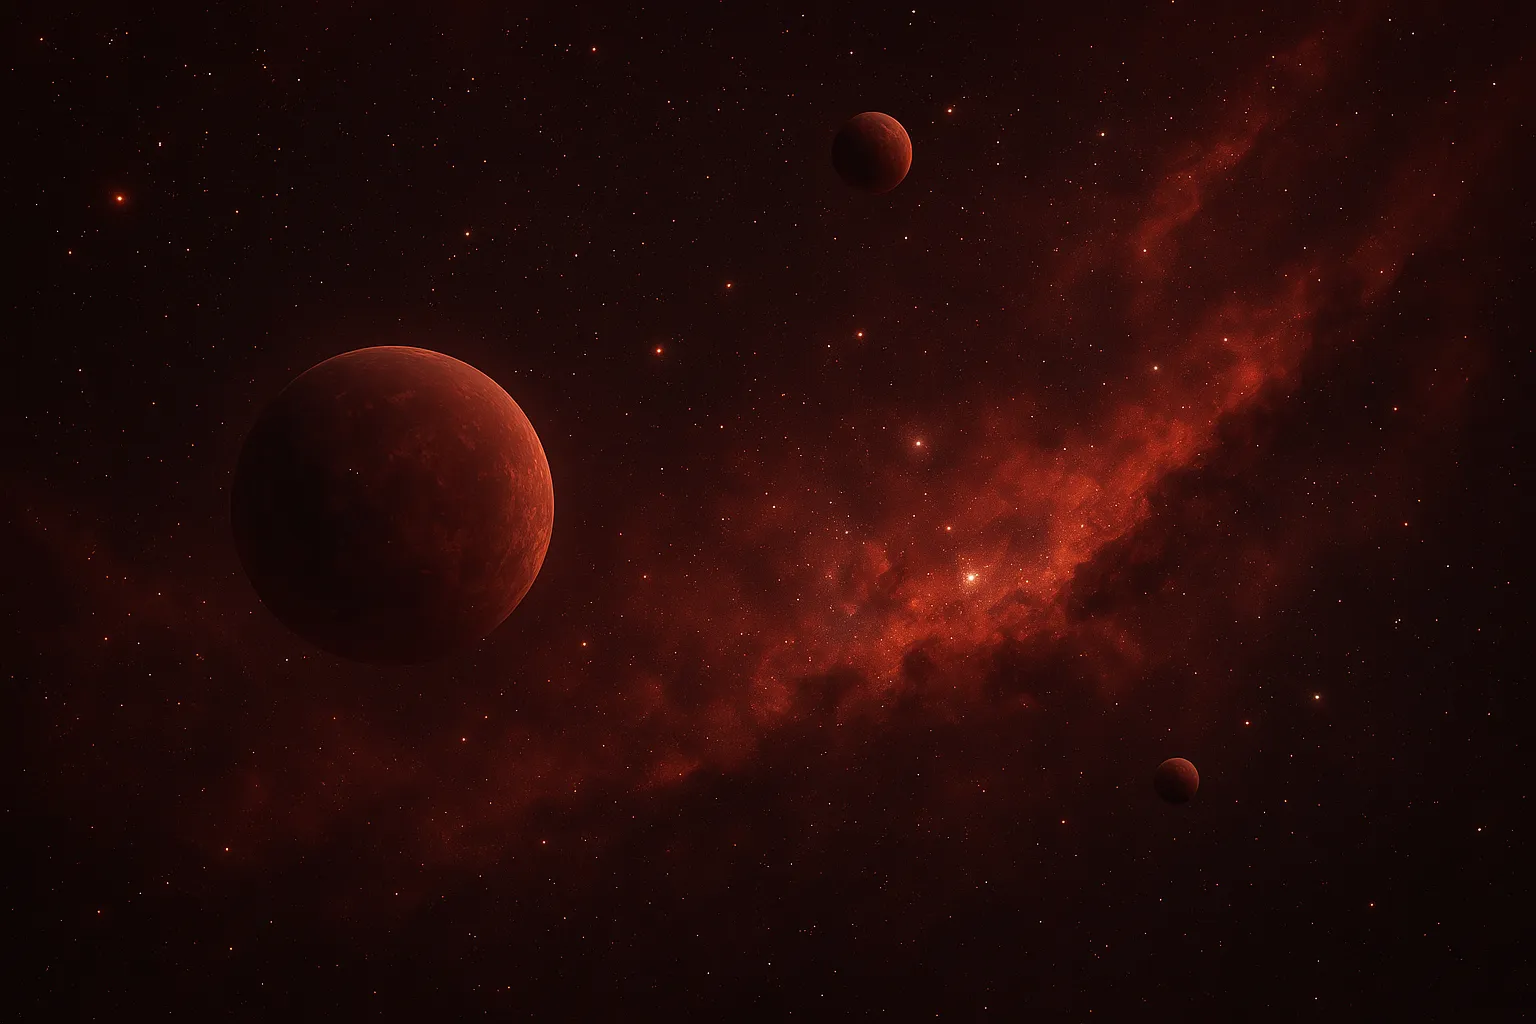
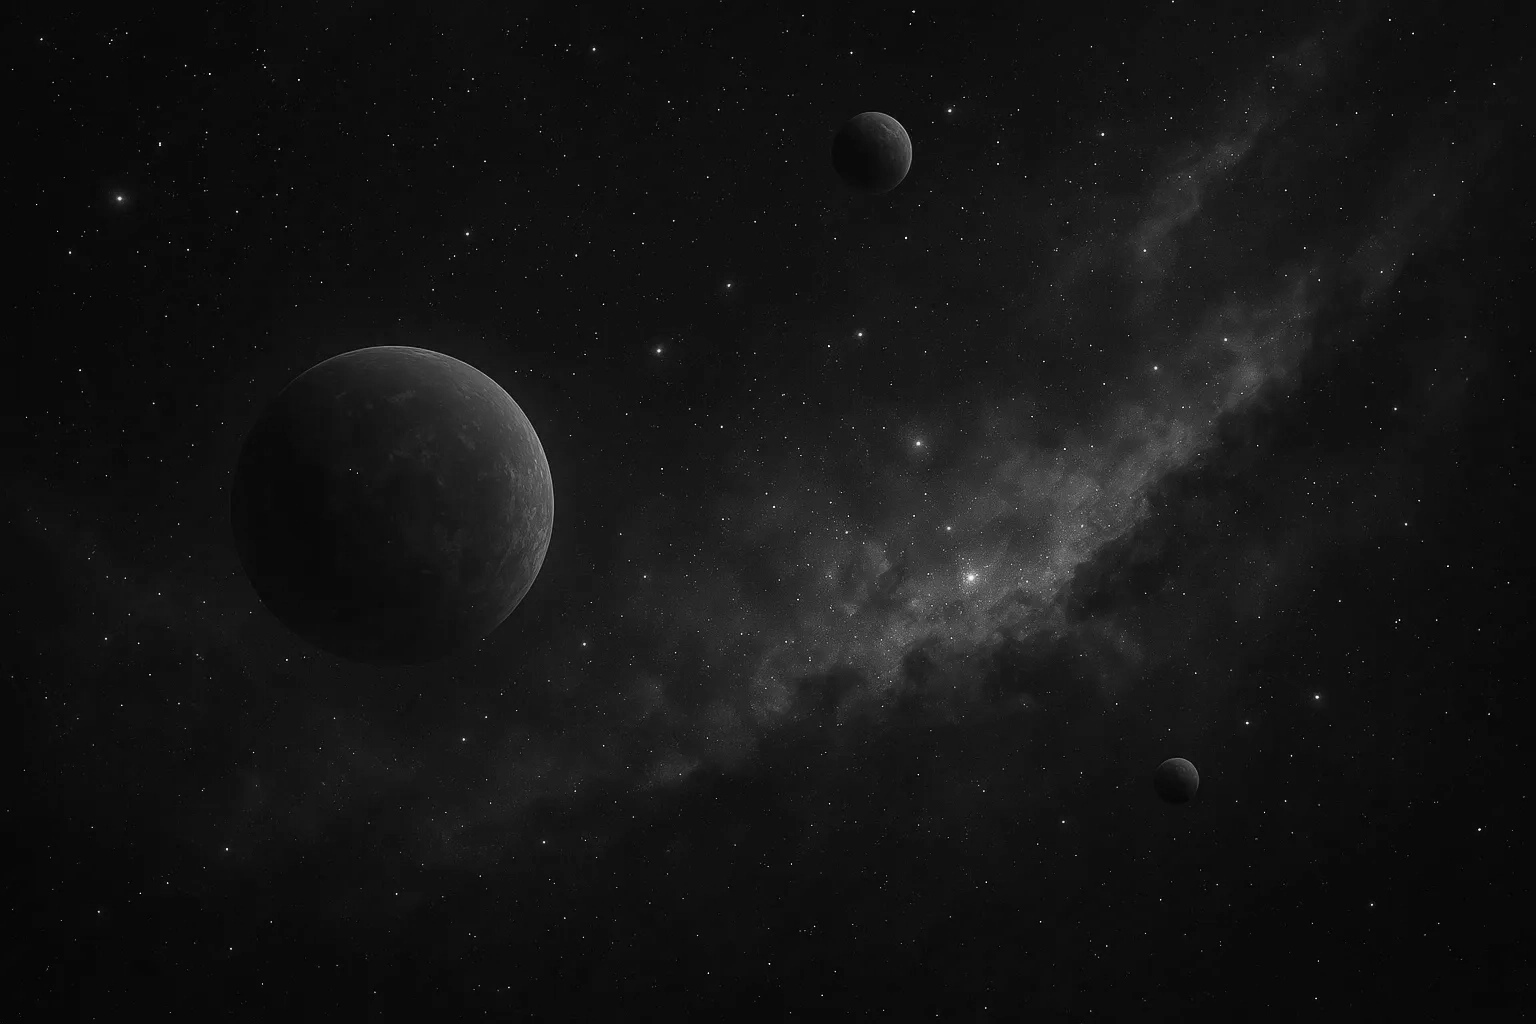
fix color on hero

diff --git a/src/components/theme/ColorContext.tsx b/src/components/theme/ColorContext.tsx
@@ -4,7 +4,7 @@ import React, { createContext, useContext, useState, ReactNode } from 'react';
 
 // Lista de colores tailwind principales ordenada por escala cromática
 export const TAILWIND_COLORS = [
-  'red', 'rose', 'pink', 'fuchsia', 'purple', 'violet', 'indigo', 'blue', 'sky', 'cyan', 'teal', 'emerald', 'green', 'lime', 'yellow', 'amber', 'orange', 'stone', 'neutral', 'zinc', 'slate'
+  'red', 'rose', 'pink', 'fuchsia', 'purple', 'violet', 'indigo', 'blue', 'sky', 'cyan', 'teal', 'emerald', 'green', 'lime', 'yellow', 'amber', 'orange', 'stone', 'slate'
 ];
 
 export type MainColor = typeof TAILWIND_COLORS[number];
@@ -51,36 +51,76 @@ export const COLOR_CLASS_MAP: Record<MainColor, string> = {
   rose: 'bg-rose-100 hover:bg-rose-200 dark:bg-rose-500/10 dark:hover:bg-rose-500/20',
   sky: 'bg-sky-100 hover:bg-sky-200 dark:bg-sky-500/10 dark:hover:bg-sky-500/20',
   slate: 'bg-slate-100 hover:bg-slate-200 dark:bg-slate-500/10 dark:hover:bg-slate-500/20',
-  zinc: 'bg-zinc-100 hover:bg-zinc-200 dark:bg-zinc-500/10 dark:hover:bg-zinc-500/20',
-  neutral: 'bg-neutral-100 hover:bg-neutral-200 dark:bg-neutral-500/10 dark:hover:bg-neutral-500/20',
   stone: 'bg-stone-100 hover:bg-stone-200 dark:bg-stone-500/10 dark:hover:bg-stone-500/20',
 };
 
 // Mapeo explícito de clases tailwind para bordes
 export const COLOR_BORDER_CLASS_MAP: Record<MainColor, string> = {
-  red: 'border-red-500', blue: 'border-blue-500', green: 'border-green-500', yellow: 'border-yellow-500',
-  purple: 'border-purple-500', pink: 'border-pink-500', indigo: 'border-indigo-500', teal: 'border-teal-500',
-  orange: 'border-orange-500', cyan: 'border-cyan-500', emerald: 'border-emerald-500', lime: 'border-lime-500',
-  amber: 'border-amber-500', violet: 'border-violet-500', fuchsia: 'border-fuchsia-500', rose: 'border-rose-500',
-  sky: 'border-sky-500', slate: 'border-slate-500', zinc: 'border-zinc-500', neutral: 'border-neutral-500', stone: 'border-stone-500',
+  red: 'border-red-500', 
+  blue: 'border-blue-500', 
+  green: 'border-green-500', 
+  yellow: 'border-yellow-500',
+  purple: 'border-purple-500', 
+  pink: 'border-pink-500', 
+  indigo: 'border-indigo-500', 
+  teal: 'border-teal-500',
+  orange: 'border-orange-500', 
+  cyan: 'border-cyan-500', 
+  emerald: 'border-emerald-500', 
+  lime: 'border-lime-500',
+  amber: 'border-amber-500', 
+  violet: 'border-violet-500', 
+  fuchsia: 'border-fuchsia-500', 
+  rose: 'border-rose-500',
+  sky: 'border-sky-500', 
+  slate: 'border-slate-500', 
+  stone: 'border-stone-500',
 };
 
 // Mapeo explícito de clases tailwind para sombras
 export const COLOR_SHADOW_CLASS_MAP: Record<MainColor, string> = {
-  red: 'shadow-red-400', blue: 'shadow-blue-400', green: 'shadow-green-400', yellow: 'shadow-yellow-400',
-  purple: 'shadow-purple-400', pink: 'shadow-pink-400', indigo: 'shadow-indigo-400', teal: 'shadow-teal-400',
-  orange: 'shadow-orange-400', cyan: 'shadow-cyan-400', emerald: 'shadow-emerald-400', lime: 'shadow-lime-400',
-  amber: 'shadow-amber-400', violet: 'shadow-violet-400', fuchsia: 'shadow-fuchsia-400', rose: 'shadow-rose-400',
-  sky: 'shadow-sky-400', slate: 'shadow-slate-400', zinc: 'shadow-zinc-400', neutral: 'shadow-neutral-400', stone: 'shadow-stone-400',
+  red: 'shadow-red-400', 
+  blue: 'shadow-blue-400', 
+  green: 'shadow-green-400', 
+  yellow: 'shadow-yellow-400',
+  purple: 'shadow-purple-400', 
+  pink: 'shadow-pink-400', 
+  indigo: 'shadow-indigo-400', 
+  teal: 'shadow-teal-400',
+  orange: 'shadow-orange-400', 
+  cyan: 'shadow-cyan-400', 
+  emerald: 'shadow-emerald-400', 
+  lime: 'shadow-lime-400',
+  amber: 'shadow-amber-400', 
+  violet: 'shadow-violet-400', 
+  fuchsia: 'shadow-fuchsia-400', 
+  rose: 'shadow-rose-400',
+  sky: 'shadow-sky-400', 
+  slate: 'shadow-slate-400', 
+  stone: 'shadow-stone-400',
 };
 
 // Mapeo explícito de clases tailwind para texto
 export const COLOR_TEXT_CLASS_MAP: Record<MainColor, string> = {
-  red: 'text-red-500', blue: 'text-blue-500', green: 'text-green-500', yellow: 'text-yellow-500',
-  purple: 'text-purple-500', pink: 'text-pink-500', indigo: 'text-indigo-500', teal: 'text-teal-500',
-  orange: 'text-orange-500', cyan: 'text-cyan-500', emerald: 'text-emerald-500', lime: 'text-lime-500',
-  amber: 'text-amber-500', violet: 'text-violet-500', fuchsia: 'text-fuchsia-500', rose: 'text-rose-500',
-  sky: 'text-sky-500', slate: 'text-slate-500', zinc: 'text-zinc-500', neutral: 'text-neutral-500', stone: 'text-stone-500',
+  red: 'text-red-500', 
+  blue: 'text-blue-500', 
+  green: 'text-green-500', 
+  yellow: 'text-yellow-500',
+  purple: 'text-purple-500', 
+  pink: 'text-pink-500', 
+  indigo: 'text-indigo-500', 
+  teal: 'text-teal-500',
+  orange: 'text-orange-500', 
+  cyan: 'text-cyan-500', 
+  emerald: 'text-emerald-500', 
+  lime: 'text-lime-500',
+  amber: 'text-amber-500', 
+  violet: 'text-violet-500', 
+  fuchsia: 'text-fuchsia-500', 
+  rose: 'text-rose-500',
+  sky: 'text-sky-500', 
+  slate: 'text-slate-500', 
+  stone: 'text-stone-500',
 };
 
 // Mapeo explícito de gradientes para títulos
@@ -103,7 +143,5 @@ export const COLOR_GRADIENT_MAP: Record<MainColor, { from: string; to: string }>
   rose: { from: 'from-rose-300', to: 'to-rose-700' },
   sky: { from: 'from-sky-300', to: 'to-sky-700' },
   slate: { from: 'from-slate-300', to: 'to-slate-700' },
-  zinc: { from: 'from-zinc-300', to: 'to-zinc-700' },
-  neutral: { from: 'from-neutral-300', to: 'to-neutral-700' },
   stone: { from: 'from-stone-300', to: 'to-stone-700' },
 };

diff --git a/src/components/theme/FloatingColorSelector.tsx b/src/components/theme/FloatingColorSelector.tsx
@@ -10,7 +10,7 @@ const colorMap: Record<MainColor, string> = {
     purple: 'bg-purple-500', violet: 'bg-violet-500', indigo: 'bg-indigo-500', blue: 'bg-blue-500',
     sky: 'bg-sky-500', cyan: 'bg-cyan-500', teal: 'bg-teal-500', emerald: 'bg-emerald-500',
     green: 'bg-green-500', lime: 'bg-lime-500', yellow: 'bg-yellow-400', amber: 'bg-amber-400',
-    orange: 'bg-orange-500', stone: 'bg-stone-500', neutral: 'bg-neutral-500', zinc: 'bg-zinc-500', slate: 'bg-slate-500',
+    orange: 'bg-orange-500', stone: 'bg-stone-500', slate: 'bg-slate-500',
 };
 
 export default function FloatingColorSelector() {
@@ -108,17 +108,11 @@ export default function FloatingColorSelector() {
                                     <path d="M6 6L14 14M14 6L6 14" stroke="currentColor" strokeWidth="2" strokeLinecap="round" />
                                 </svg>
                             </button>
-                            <div className="relative gap-1 w-[320px] h-10 flex items-center justify-between mt-2">
-                                {TAILWIND_COLORS.map((color, i) => (
-                                    <div
-                                        key={color}
-                                        className={`h-3 w-3 rounded-full ${colorMap[color]} border-2 ${mainColor === color ? 'border-black dark:border-white scale-110 z-10' : 'border-transparent'} transition-transform duration-200`}
-                                    />
-                                ))}
-                            </div>
+                            
+                            <span className="text-xs text-neutral-500 mt-1">Drag the circle to select a color</span>
                             <div
                                 ref={containerRef}
-                                className="relative w-[320px] h-5 bg-white dark:bg-neutral-900 shadow-lg rounded-full flex items-center border border-neutral-200 dark:border-neutral-700 cursor-pointer"
+                                className="relative w-[320px] h-5 bg-white dark:bg-neutral-900 shadow-lg rounded-full flex items-center border border-neutral-200 dark:border-neutral-700 cursor-pointer mt-2"
                                 onMouseDown={handleMouseDown}
                                 onMouseMove={handleMouseMove}
                                 onMouseUp={handleMouseUp}
@@ -135,7 +129,15 @@ export default function FloatingColorSelector() {
                                     }}
                                 />
                             </div>
-                            <span className="text-xs text-neutral-500 mt-1">Drag the circle to select a color</span>
+                            <div className="relative gap-1 w-[320px] h-10 flex items-center justify-between my-1">
+                                {TAILWIND_COLORS.map((color, i) => (
+                                    <div
+                                        key={color}
+                                        className={`h-3 w-3 rounded-full ${colorMap[color]} border-2 ${mainColor === color ? 'border-black dark:border-white scale-110 z-10' : 'border-transparent'} transition-transform duration-200`}
+                                    />
+                                ))}
+                            </div>
+                            <span className={`p-2 rounded bg-${mainColor}-100 text-xs text-${mainColor}-500 mt-1`}>Current color: <b>{mainColor}</b></span>
                         </>
                     )}
                 </div>

diff --git a/src/components/home/Hero.tsx b/src/components/home/Hero.tsx
@@ -5,7 +5,6 @@ import ThreeHero from "@/components/three/ThreeHero"; // Ensure ThreeHero is a d
 import { motion } from "framer-motion";
 import Button from "@/components/theme/Button"; // Adjust the import path as necessary
 import { Suspense } from "react";
-import { TitleH1 } from "@/components/common/TitleH1";
 import { useColorContext } from '@/components/theme/ColorContext';
 
 const Hero: React.FC = () => {
@@ -38,7 +37,7 @@ const Hero: React.FC = () => {
 
     return (
         <section
-            className="flex justify-center items-center w-full pt-15 lg:pt-0"
+            className="flex justify-center items-center w-full"
             style={{
             height: "100%",
             minHeight: "calc(100vh - 93px)",
@@ -52,7 +51,6 @@ const Hero: React.FC = () => {
             className="px-6 lg:px-0">
                 <h1
                 className={`text-center lg:text-start text-4xl lg:text-6xl xl:text-8xl font-extrabold uppercase bg-gradient-to-r ${gradient.from} ${gradient.to} inline-block text-transparent bg-clip-text leading-8 lg:leading-11 xl:leading-20 transition-colors duration-300`}
-                
                 >
                 Building Impactful Digital Experiences
                 </h1>
@@ -110,7 +108,7 @@ const Hero: React.FC = () => {
 
                 >
                 <motion.span
-                    className={`absolute top-10 left-15 lg:left-50 bg-${mainColor}-100 dark:bg-gray-950 text-gray-900 dark:text-gray-400 p-2 text-xl font-semibold shadow-lg transform rotate-3 rounded-md transition-colors duration-300`}
+                    className={`absolute top-10 left-15 lg:left-50 bg-${mainColor}-100 text-${mainColor}-500 p-2 text-xl font-semibold shadow-lg transform rotate-3 rounded-md transition-colors duration-300`}
                     animate={{
                     y: [10, -10, 10], // Subtle float up and down
                     rotate: [0, 2, -1, 0], // Subtle rotation
@@ -128,7 +126,7 @@ const Hero: React.FC = () => {
                 <ThreeHero />
 
                 <motion.span
-                    className={`absolute bg-${mainColor}-100 right-15 dark:bg-gray-950 text-gray-900 dark:text-gray-400 p-2 bottom-25 text-xl font-bold shadow-lg transform -rotate-6 rounded-md transition-colors duration-300`}
+                    className={`absolute right-15 bg-${mainColor}-100 text-${mainColor}-500 p-2 bottom-25 text-xl font-bold shadow-lg transform -rotate-6 rounded-md transition-colors duration-300`}
                     animate={{
                     y: [0, -20, 0], // Float up and down
                     rotate: [0, 5, -5, 0], // Slight rotation
@@ -140,7 +138,7 @@ const Hero: React.FC = () => {
                     delay: 1, // Delay before animation starts
                     }}
                 >
-                    Just pet the dog! 🐶✨
+                    Just pet the dog! ✨
                 </motion.span>
                 </motion.div>
             </div>

diff --git a/src/components/three/ThreeHero.tsx b/src/components/three/ThreeHero.tsx
@@ -1,6 +1,7 @@
 import React, { Suspense, useState } from "react";
 import { Canvas, useFrame } from "@react-three/fiber";
 import * as THREE from "three";
+import { useColorContext } from "../theme/ColorContext";
 import { useGLTF } from "@react-three/drei";
 import { useRef } from "react";
 
@@ -20,6 +21,18 @@ function Character() {
 }
 
 export default function Scene() {
+
+  const { mainColor } = useColorContext();
+    // Utilidad para mapear el color tailwind a un color de three.js
+    const colorMap: Record<string, string> = {
+      red: '#ef4444', blue: '#3b82f6', green: '#22c55e', yellow: '#eab308',
+      purple: '#a21caf', pink: '#ec4899', indigo: '#6366f1', teal: '#14b8a6',
+      orange: '#f59e42', cyan: '#06b6d4', emerald: '#10b981', lime: '#84cc16',
+      amber: '#f59e42', violet: '#8b5cf6', fuchsia: '#d946ef', rose: '#f43f5e',
+      sky: '#0ea5e9', slate: '#64748b', zinc: '#71717a', neutral: '#737373', stone: '#78716c',
+    };
+    const threeColor = colorMap[mainColor] || '#ef4444';
+
   const [bubbles, setBubbles] = useState<
     { id: number; x: number; y: number; rotation: number }[]
   >([]);
@@ -78,22 +91,22 @@ export default function Scene() {
         camera={{ position: [9, 3, 2], fov: 50 }}
         onClick={handleCanvasClick}
       >
-        <ambientLight intensity={0.5} />
+        <ambientLight intensity={0.5} color={threeColor} />
         <directionalLight position={[5, 5, 5]} castShadow intensity={1} />
         <directionalLight
           position={[-5, 0, -5]}
           intensity={1}
-          color="red"
+          color={threeColor}
         />
         <directionalLight
           position={[-2, 0, -5]}
           intensity={3}
-          color="white"
+          color={threeColor}
         />
         <directionalLight
           position={[1, 0, -1]}
           intensity={1}
-          color="white"
+          color={threeColor}
         />
         <Suspense fallback={null}>
           <Character />
